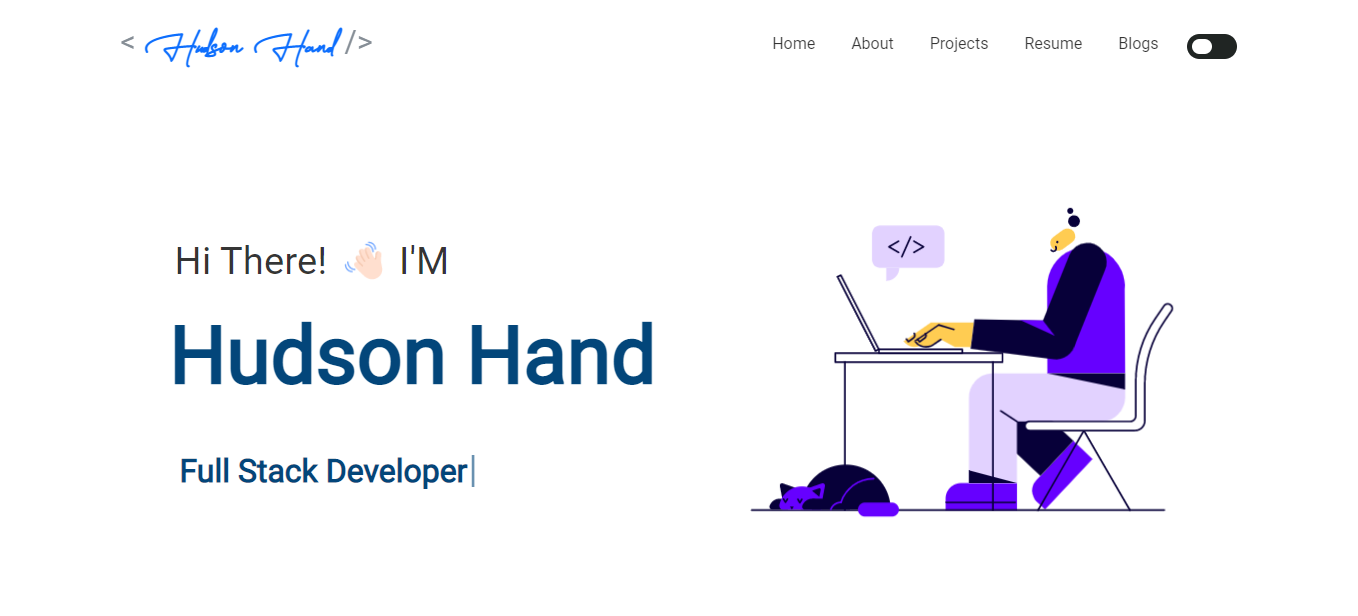
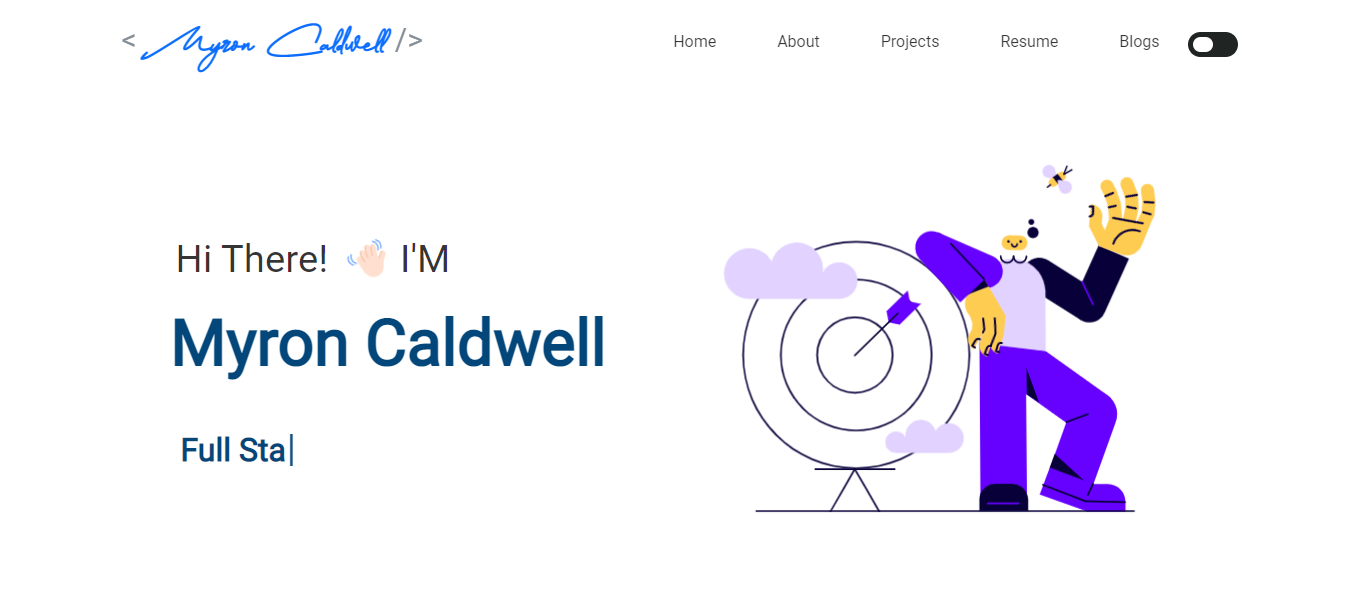
docs: myron

diff --git a/public/index.html b/public/index.html
@@ -18,11 +18,11 @@
     user's mobile device or desktop. See https://developers.google.com/web/fundamentals/web-app-manifest/
   -->
   <link rel="manifest" href="%PUBLIC_URL%/manifest.json" />
-  <title>Hudson Hand - Full Stack Web Developer</title>
+  <title>Myron Caldwell - Full Stack Web Developer</title>
   <meta name="description" content="Self Developed personal Portfolio website build with React.js">
 
   <!-- Google / Search Engine Tags -->
-  <meta itemprop="name" content="Hudson Hand - Full Stack Web Developer">
+  <meta itemprop="name" content="Myron Caldwell - Full Stack Web Developer">
   <meta itemprop="description" content="Self Developed personal Portfolio website build with React.js">
   <meta itemprop="image"
     content="https://raw.githubusercontent.com/rahuljha4171/Portfolio-Website/main/Images/Portfolio_img.png">
@@ -30,7 +30,7 @@
   <!-- Facebook Meta Tags -->
   <meta property="og:url" content="https://www.rahuljha.tech/">
   <meta property="og:type" content="website">
-  <meta property="og:title" content="Hudson Hand - Full Stack Web Developer">
+  <meta property="og:title" content="Myron Caldwell - Full Stack Web Developer">
   <meta property="og:description" content="Self Developed personal Portfolio website build with React.js">
   <meta property="og:image"
     content="https://raw.githubusercontent.com/rahuljha4171/Portfolio-Website/main/Images/Portfolio_img.png">

diff --git a/src/components/Home/Home.js b/src/components/Home/Home.js
@@ -2,7 +2,7 @@ import React from "react";
 import { Container, Row, Col } from "react-bootstrap";
 //import homeIcon from "../../Assets/homeicons.svg";
 import ScrollToTop from "../ScrollToTop/ScrollToTop";
-import codingPerson from "../../Assets/lottie/codingPerson";
+import codingPerson from "../../Assets/lottie/landingPerson";
 import DisplayLottie from "./DisplayLottie";
 import Home2 from "./Home2";
 import Type from "./Type";
@@ -37,7 +37,7 @@ function Home() {
               </h1>
 
               <h1 className="heading-name">
-                <strong className="main-name">Hudson Hand</strong>
+                <strong className="main-name">Myron Caldwell</strong>
               </h1>
 
               <div style={{ padding: 30 }} className="type">

diff --git a/src/components/About/AboutCard.js b/src/components/About/AboutCard.js
@@ -8,7 +8,7 @@ function AboutCard() {
       <Card.Body>
         <blockquote className="blockquote mb-0" data-aos="zoom-in">
           <p style={{ textAlign: "justify" }}>
-            Hi Everyone, I am <span className="primary-header">Hudson Hand</span> , I am a computer science graduate and a passionate programmer.
+            Hi Everyone, I am <span className="primary-header">Myron Caldwell</span> , I am a computer science graduate and a passionate programmer.
             <br />
             <br />
             In addition to coding, here are some other things I enjoy doing!

diff --git a/src/components/navbar/Navbar.js b/src/components/navbar/Navbar.js
@@ -46,7 +46,7 @@ function NavBar() {
           
           <a href="/" className="logo">
           <span className="grey-color"> &lt;</span>
-          <span className="logo-name">Hudson Hand</span>
+          <span className="logo-name">Myron Caldwell</span>
           <span className="grey-color">/&gt;</span>
           </a>
         </Navbar.Brand>

diff --git a/src/components/footer/Footer.jsx b/src/components/footer/Footer.jsx
@@ -17,7 +17,7 @@ function Footer() {
         <Col md="4" className="footer-copywright">
           <span>
             Designed and Developed by{" "}
-            <i className="primary-header">Hudson Hand</i>
+            <i className="primary-header">Myron Caldwell</i>
           </span>
         </Col>
         <Col md="4" className="footer-body">

diff --git a/src/components/navbar/navbar.css b/src/components/navbar/navbar.css
@@ -105,11 +105,11 @@
 
 .navbar-nav .nav-item {
   position: relative;
-  margin-left: 20px;
+  margin-left: 45px;
 }
 
 .navbar-nav .nav-item a {
-  font-weight: 400;
+  font-weight: 550;
   transition: all 0.3s ease-out 0s;
   position: relative;
   z-index: 1;

diff --git a/src/components/Home/home.css b/src/components/Home/home.css
@@ -57,7 +57,7 @@
 }
 
 .heading-name {
-  font-size: 5em !important;
+  font-size: 4em !important;
   padding-left: 45px !important;
 }
 

diff --git a/README.md b/README.md
@@ -1,6 +1,6 @@
 <h2 align="center">
-  Hudson Hand | Portfolio Website<br/>
-  <a href="https://portfolio-website-f430b.web.app/" target="_blank">Hudson Hand</a>
+  Myron Caldwell | Portfolio Website<br/>
+  <a href="https://portfolio-website-f430b.web.app/" target="_blank">Myron Caldwell</a>
 </h2>
 <div align="center">
   <img alt="Demo" src="./Images/readme_img.png" />
@@ -14,11 +14,11 @@
 
 </div>
 
-You can fork this repo to modify and make changes according to your need. Please give me proper credit by linking back to [Hudson Hand](https://github.com/myroncaldwell/Portfolio-Website). Thanks in Advance😍!
+You can fork this repo to modify and make changes according to your need. Please give me proper credit by linking back to [Myron Caldwell](https://github.com/myroncaldwell/Portfolio-Website). Thanks in Advance😍!
 
 ## Built With
 
-My personal portfolio website <a href="https://portfolio-website-f430b.web.app/" target="_blank">Hudson Hand</a> which features some of my github projects as well as my resume and technical skills.<br/>
+My personal portfolio website <a href="https://portfolio-website-f430b.web.app/" target="_blank">Myron Caldwell</a> which features some of my github projects as well as my resume and technical skills.<br/>
 
 This project is built using these technologies.
 
